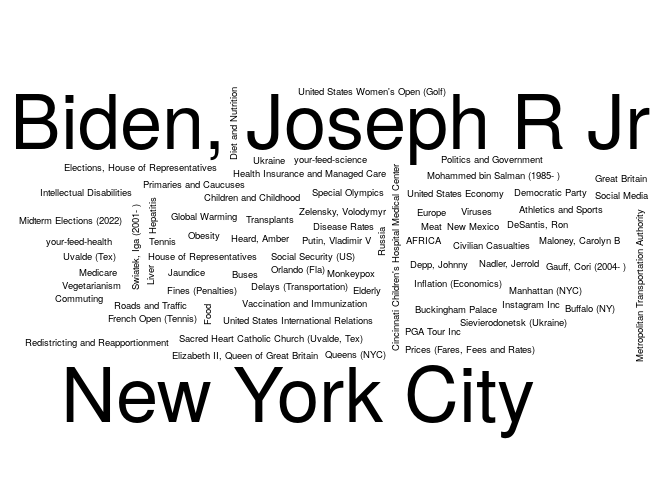
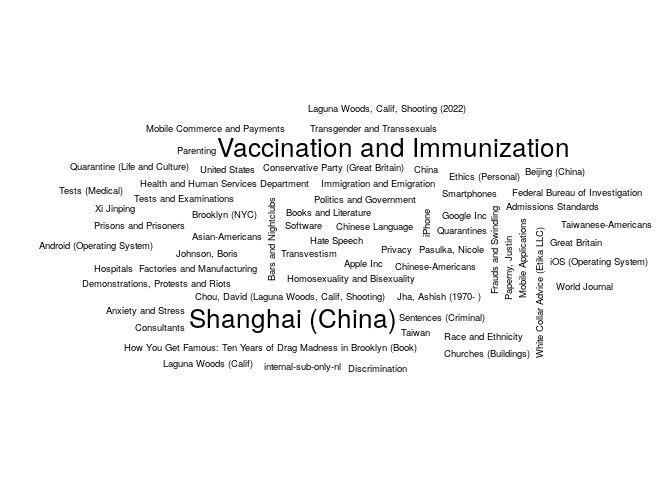
Updating the NYT report

Changed region(s): [[0.0, 0.1875, 0.9688, 0.9062], [0.875, 0.1875, 0.9688, 0.3125]]

diff --git a/03-nytimes/README.md b/03-nytimes/README.md
@@ -5,7 +5,7 @@ The following is an example of how to use the [NYTimes
 API](https://developer.nytimes.com/) to get a list of articles related
 to a particular term. Here we are searching articles that include the
 term `"health"`, and that were published up to seven days ago since
-2022-06-06.
+2022-06-13.
 
 ``` r
 # Preparing a function to use the GET method with the NYTimes API
@@ -83,25 +83,25 @@ colnames(tab) <- c("Keyword", "# Articles")
 knitr::kable(tab, row.names = FALSE)
 ```
 
-| Keyword                                       | \# Articles |
-|:----------------------------------------------|------------:|
-| Biden, Joseph R Jr                            |          20 |
-| Coronavirus (2019-nCoV)                       |          20 |
-| New York City                                 |          20 |
-| Russian Invasion of Ukraine (2022)            |          20 |
-| War and Armed Conflicts                       |          20 |
-| AFRICA                                        |          10 |
-| Athletics and Sports                          |          10 |
-| Buckingham Palace                             |          10 |
-| Buffalo (NY)                                  |          10 |
-| Buses                                         |          10 |
-| Children and Childhood                        |          10 |
-| Cincinnati Children’s Hospital Medical Center |          10 |
-| Civilian Casualties                           |          10 |
-| Commuting                                     |          10 |
-| Delays (Transportation)                       |          10 |
-| Democratic Party                              |          10 |
-| Depp, Johnny                                  |          10 |
-| DeSantis, Ron                                 |          10 |
-| Diet and Nutrition                            |          10 |
-| Disease Rates                                 |          10 |
+| Keyword                                     | \# Articles |
+|:--------------------------------------------|------------:|
+| Coronavirus (2019-nCoV)                     |          50 |
+| Shanghai (China)                            |          20 |
+| Vaccination and Immunization                |          20 |
+| Admissions Standards                        |          10 |
+| Android (Operating System)                  |          10 |
+| Anxiety and Stress                          |          10 |
+| Apple Inc                                   |          10 |
+| Asian-Americans                             |          10 |
+| Bars and Nightclubs                         |          10 |
+| Beijing (China)                             |          10 |
+| Books and Literature                        |          10 |
+| Brooklyn (NYC)                              |          10 |
+| China                                       |          10 |
+| Chinese Language                            |          10 |
+| Chinese-Americans                           |          10 |
+| Chou, David (Laguna Woods, Calif, Shooting) |          10 |
+| Churches (Buildings)                        |          10 |
+| Conservative Party (Great Britain)          |          10 |
+| Consultants                                 |          10 |
+| Demonstrations, Protests and Riots          |          10 |
